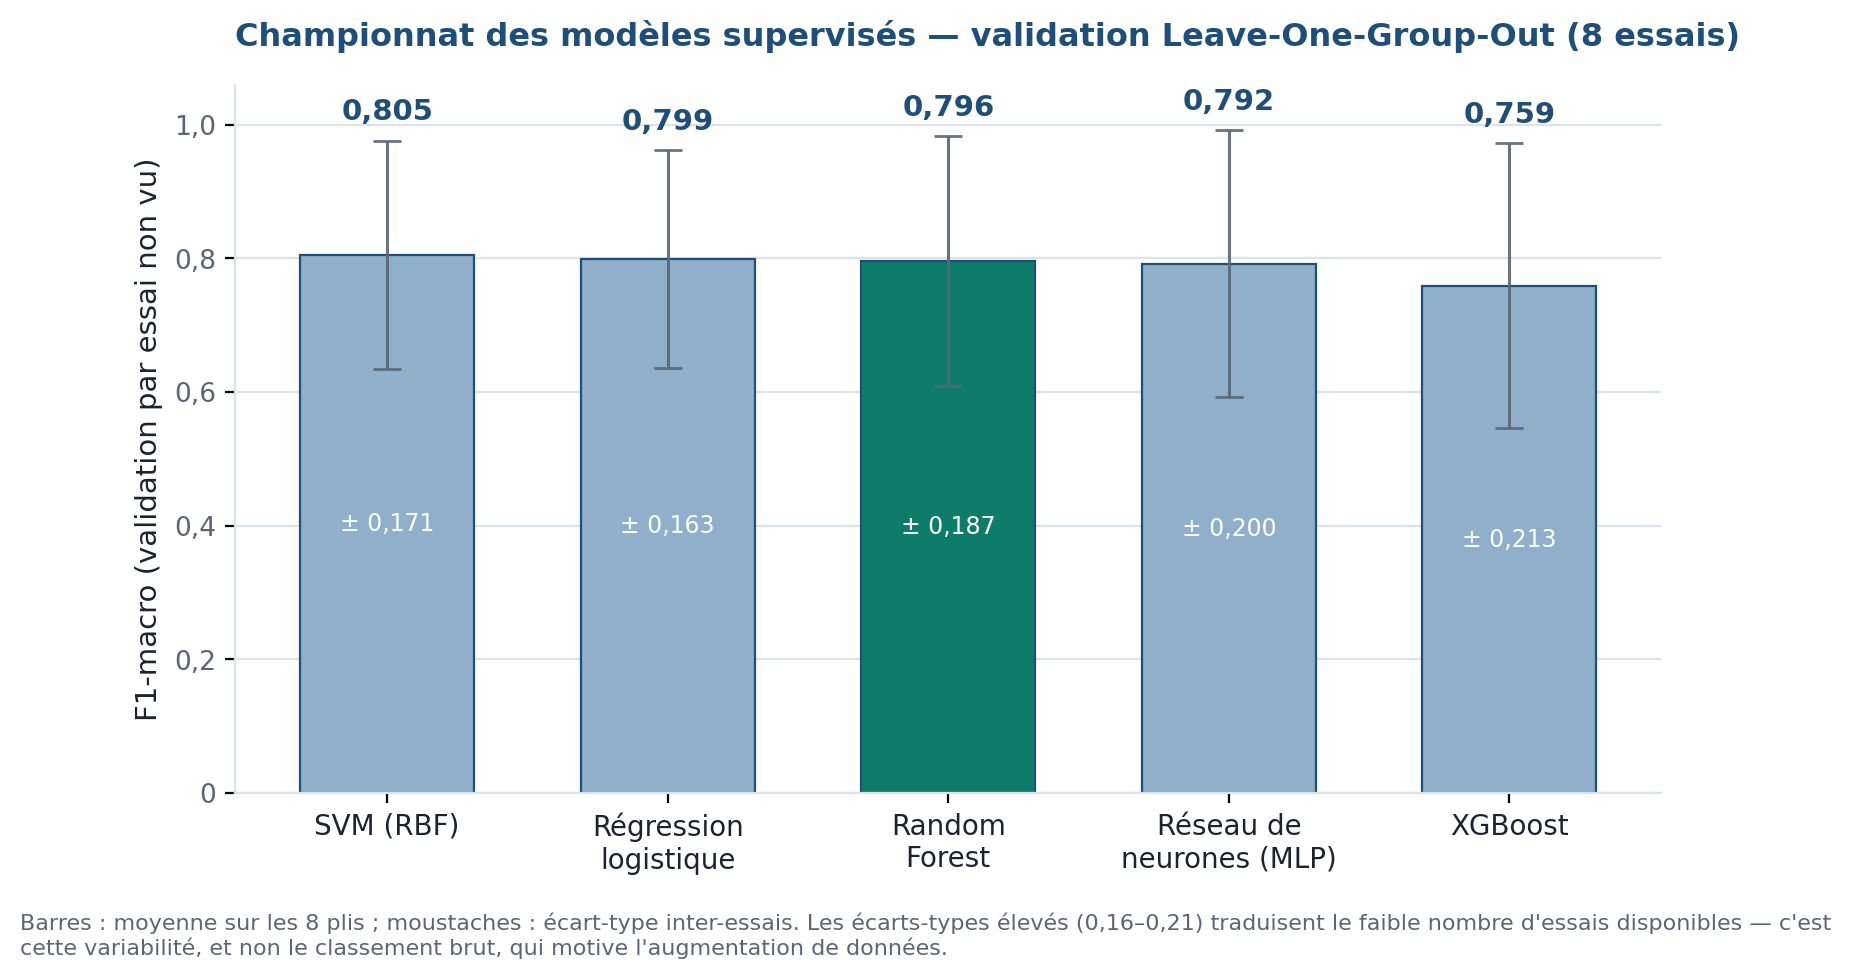
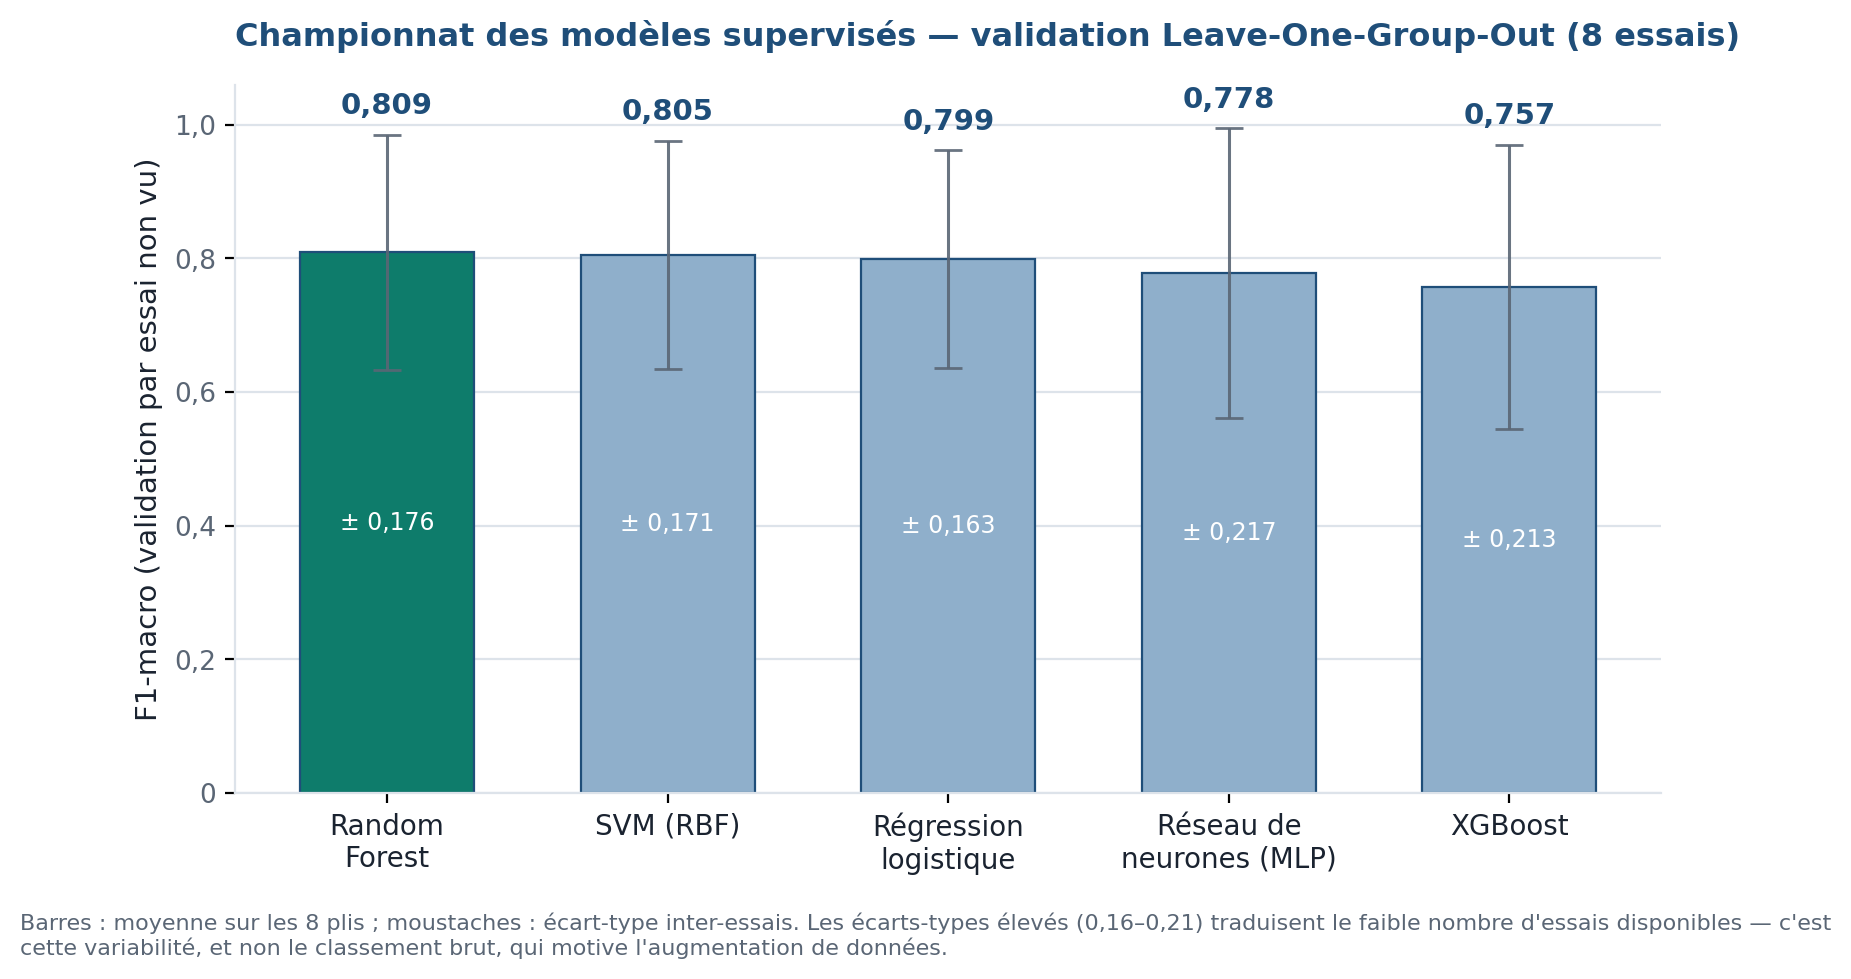
fix(figures): aligner le championnat des modèles sur le tableau du mémoire
La figure lisait model_comparison_logo_w60.json, campagne du 7 juillet, qui
donne Random Forest à 0,796 et place le SVM en tête. Le mémoire publie le
Tableau 8, issu de la campagne fold-aware du 31 juillet, où Random Forest est
à 0,809.

Les deux coexistaient dans le document déposé : la Figure 11 contredisait le
Tableau 8 sur le chiffre central du travail. Sur la diapositive 14 du support,
le graphique affichait 0,796 au-dessus d'un commentaire annonçant 0,809, et
montrait le modèle retenu en troisième position.

La figure lit désormais la même source que le mémoire. Le support porte donc un
seul jeu de chiffres.

diff --git a/scripts/build_fig_championnat.py b/scripts/build_fig_championnat.py
@@ -6,11 +6,20 @@ Leave-One-Group-Out (un essai laissé de côté à chaque pli, 8 essais), c'est-
 dire la mesure honnête : aucun modèle n'est évalué sur un essai qu'il a vu.
 
 Sortie : figures_memoire/fig_championnat_modeles.png
-Source : reports/model_comparison_logo_w60.json
+Source : reports/AI_thesis_results/block_2_model_augmentation/table_for_thesis.csv
+
+La figure lisait auparavant reports/model_comparison_logo_w60.json (campagne du
+7 juillet), qui donne Random Forest à 0,796 et place le SVM en tête. Le mémoire,
+lui, publie le Tableau 8 issu de la campagne finale fold-aware du 31 juillet, où
+Random Forest est à 0,809. Les deux coexistaient : le tableau du mémoire et sa
+Figure 11 se contredisaient sur le chiffre central du travail.
+
+La source est donc alignée sur celle du mémoire — un seul jeu de chiffres.
 """
 from __future__ import annotations
 
-import json
+import csv
+import re
 from pathlib import Path
 
 import matplotlib
@@ -19,7 +28,8 @@ import matplotlib.pyplot as plt
 from matplotlib import font_manager  # noqa: F401
 
 ROOT = Path(__file__).resolve().parents[1]
-SRC = ROOT / "reports" / "model_comparison_logo_w60.json"
+SRC = (ROOT / "reports" / "AI_thesis_results" / "block_2_model_augmentation"
+       / "table_for_thesis.csv")
 # Le pipeline du mémoire lit les figures dans reports/memoire_figures/ ;
 # figures_memoire/ est la copie livrable (alimentée par build_memoire_pro.py).
 OUT = ROOT / "reports" / "memoire_figures" / "fig_championnat_modeles.png"
@@ -32,22 +42,36 @@ GRIS = "#5A6675"
 GRILLE = "#DDE3EA"
 
 LABELS = {
-    "LogisticRegression": "Régression\nlogistique",
-    "RandomForest": "Random\nForest",
-    "SVM_RBF": "SVM (RBF)",
+    "Logistic regression": "Régression\nlogistique",
+    "Random Forest": "Random\nForest",
+    "SVM (RBF)": "SVM (RBF)",
     "XGBoost": "XGBoost",
-    "MLP": "Réseau de\nneurones (MLP)",
+    "Neural network (MLP)": "Réseau de\nneurones (MLP)",
 }
+
+# « 0.809 ± 0.176 » -> (0.809, 0.176)
+_VAL = re.compile(r"([\d.]+)\s*±\s*([\d.]+)")
+
+
+def lire_table() -> list[tuple[str, float, float]]:
+    """Lit le Tableau 8 du mémoire : F1-macro sans augmentation, par modèle."""
+    lignes = []
+    with SRC.open(encoding="utf-8-sig") as f:
+        for row in csv.DictReader(f):
+            m = _VAL.search(row["Macro-F1 without augmentation"])
+            if not m:
+                continue
+            lignes.append((row["Model"].strip(), float(m.group(1)), float(m.group(2))))
+    if not lignes:
+        raise SystemExit(f"Aucune valeur lisible dans {SRC}")
+    return lignes
 
 
 def main() -> None:
-    data = json.loads(SRC.read_text(encoding="utf-8"))
-    models = data["models"]
-    # Tri décroissant par F1-macro moyen
-    items = sorted(models.items(), key=lambda kv: kv[1]["logo_f1_macro_mean"], reverse=True)
-    noms = [LABELS.get(k, k) for k, _ in items]
-    moy = [v["logo_f1_macro_mean"] for _, v in items]
-    ect = [v["logo_f1_macro_std"] for _, v in items]
+    items = sorted(lire_table(), key=lambda t: t[1], reverse=True)
+    noms = [LABELS.get(k, k) for k, _, _ in items]
+    moy = [m for _, m, _ in items]
+    ect = [e for _, _, e in items]
 
     fig, ax = plt.subplots(figsize=(9.2, 4.6), dpi=200)
     fig.patch.set_facecolor("white")

diff --git a/reports/soutenance/CORRECTIONS_SUPPORT_apres_presoutenance.md b/reports/soutenance/CORRECTIONS_SUPPORT_apres_presoutenance.md
@@ -1,0 +1,175 @@
+# Corrections du support — après la pré-soutenance
+
+**Périmètre : le support de présentation uniquement.** Le mémoire n'est pas modifié,
+conformément à la consigne. Une réserve à connaître est signalée au point 5.
+
+---
+
+## 1. Diapositive 14 — remplacer la figure du championnat (PRIORITAIRE)
+
+**Le problème** : la figure actuelle affiche Random Forest à **0,796**, en troisième
+position derrière le SVM. Le texte de la même diapositive annonce **0,809**. Le
+graphique contredit donc le commentaire, à l'écran, en grand — et un jury qui le
+remarque en conclut que le modèle retenu n'est pas le meilleur.
+
+Origine : la figure était générée depuis une campagne de mesure du 7 juillet, alors
+que le mémoire publie celle du 31 juillet (fold-aware).
+
+**Action** : remplacer l'image par le fichier régénéré
+
+```
+figures_memoire/fig_championnat_modeles.png
+```
+
+Random Forest y est premier à 0,809, comme dans le Tableau 8 du mémoire.
+
+---
+
+## 2. Supprimer les images génératives décoratives
+
+Elles n'apportent aucune information et se repèrent immédiatement.
+
+| Diapositive | Ce qu'il faut retirer | Pourquoi |
+|---|---|---|
+| **14** | L'image de droite | Elle affiche en gros `CHAMPIANISHIP`, `NE LEARNING MODELSTOMPE`, `MCDLIY`, `Aia Sctence` — du charabia lisible à cinq mètres |
+| **6** | La photo de gauche | Un homme devant un tableau SWOT **en anglais**, qui fait doublon avec ta vraie figure juste à côté |
+
+Vérifie aussi les diapositives 8, 11, 18, 20 : partout où une image de fond passe
+sous du texte ou sous une figure, elle nuit à la lecture sans rien ajouter.
+
+**Règle simple** : une image reste si elle porte de l'information (une figure, une
+capture de l'application). Sinon elle part.
+
+---
+
+## 3. Ajouter une diapositive « Augmentation de données »
+
+À insérer **juste après la diapositive 16** (Le vrai résultat).
+
+C'est la réponse directe à la remarque « le dataset est trop petit » — et elle
+retourne complètement la critique.
+
+> ### L'augmentation de données : testée, mesurée, sans effet
+>
+> Base synthétique de **100 800 lignes** générée à partir des huit essais réels.
+
+| Modèle | Sans augmentation | Avec augmentation (par pli) | Gain |
+|---|---|---|---|
+| **Random Forest** | 0,809 | **0,809** | −0,001 |
+| SVM (RBF) | 0,805 | 0,824 | +0,018 |
+| Régression logistique | 0,799 | 0,809 | +0,010 |
+| XGBoost | 0,757 | 0,801 | +0,044 |
+| Réseau de neurones (MLP) | 0,778 | 0,781 | +0,004 |
+
+> Le synthétique **ne crée pas d'information absente des données réelles**.
+> Mon premier protocole annonçait +0,109 : le pool était généré une seule fois sur
+> les huit essais, donc l'essai de test alimentait indirectement l'entraînement.
+> Régénéré dans chaque pli, le gain disparaît.
+
+**Ce que tu dis (45 s)**
+
+> « On me demande souvent pourquoi je ne compense pas le faible volume par des
+> données synthétiques. Je l'ai fait : 100 800 lignes générées depuis mes huit
+> essais, employées de deux façons — en validation externe, où le modèle conserve
+> 0,753 d'AUC, et en augmentation d'entraînement sur les cinq modèles.
+>
+> Le gain va de +0,001 à +0,044 selon le modèle, et il est nul pour celui que je
+> retiens. La conclusion est nette : le synthétique ne remplace pas des essais
+> réels, il ne fait que redistribuer l'information déjà présente. »
+
+---
+
+## 4. Ajouter une diapositive « Pourquoi ces cinq modèles »
+
+À insérer **juste avant la diapositive 14** (Championnat).
+
+Question annoncée comme récurrente par la référente.
+
+> ### Cinq familles, pas cinq algorithmes au hasard
+
+| Modèle | Ce qu'il teste | Pourquoi lui |
+|---|---|---|
+| Régression logistique | Séparabilité linéaire | Référence basse, entièrement interprétable |
+| SVM (RBF) | Frontières non linéaires | Robuste quand les échantillons sont peu nombreux |
+| Random Forest | Ensemble par *bagging* | Donne l'importance des variables — exigence d'explicabilité |
+| XGBoost | Ensemble par *boosting* | Référence sur données tabulaires |
+| Réseau de neurones (MLP) | Non-linéarité profonde | Vérifie qu'un modèle plus expressif n'apporte rien ici |
+
+> **Écartés volontairement** : l'apprentissage profond (huit essais, il mémoriserait
+> les essais au lieu du procédé) et les modèles séquentiels type LSTM (les fenêtres
+> de 60 s sont déjà agrégées en 87 descripteurs, la dimension temporelle fine a
+> disparu).
+
+**Ce que tu dis (30 s)**
+
+> « Ces cinq modèles ne sont pas un échantillon arbitraire : ils couvrent l'espace
+> des hypothèses. Un linéaire pour la référence, un à marges pour les frontières
+> non linéaires, deux ensembles — un par bagging, un par boosting — et un réseau
+> pour vérifier qu'une plus grande expressivité n'apporte rien. Le fait qu'ils
+> finissent tous entre 0,78 et 0,82 est en soi un résultat : à ce volume de
+> données, le choix de l'algorithme n'est pas le levier. »
+
+---
+
+## 5. Réserve à connaître — ne pas la découvrir devant le jury
+
+Après ces corrections, **le support sera cohérent** (graphique, texte et Tableau 8
+du mémoire diront tous 0,809).
+
+Mais la **Figure 11 du mémoire déposé** continuera d'afficher 0,796 et de placer le
+Random Forest en troisième position, en contradiction avec son propre Tableau 8.
+Le mémoire n'est pas modifié, c'est un choix assumé : le régénérer pour trois
+décimales ferait courir plus de risques qu'il n'en éviterait.
+
+**Si la question tombe :**
+
+> « Vous avez raison, la Figure 11 et le Tableau 8 de mon mémoire divergent. Ils
+> proviennent de deux campagnes de mesure : la figure d'un premier passage
+> Leave-One-Group-Out en juillet, le tableau de la campagne finale fold-aware. Le
+> chiffre de référence est celui du tableau — 0,809. La figure aurait dû être
+> régénérée, c'est une erreur de ma part que j'ai corrigée depuis sur le support. »
+
+Un jury pardonne une erreur assumée. Il ne pardonne pas une contradiction qu'on
+n'avait pas vue.
+
+---
+
+## 6. Garder 27 diapositives : deux fusions
+
+Ajouter deux diapositives sans en retirer ferait 29, donc plus de 30 minutes.
+
+| Fusionner | En |
+|---|---|
+| **23** (Veille) + **24** (Budget) | Une seule diapositive « Veille & budget » — elles n'avaient été séparées que pour contourner une limite de Gamma |
+| **19** (HMI Supervision) + **20** (Profil & Moteur) | Une seule « L'application » — la démonstration live montre déjà les deux pages |
+
+---
+
+## 7. Ce que je ne recommande pas
+
+**Fabriquer trois cas d'utilisation supplémentaires.** Tu en as déjà cinq (C1 à C5).
+Avant d'en produire d'autres, il faut savoir ce que la référente visait :
+
+- soit elle **ne les a pas vus** — alors le problème est qu'ils ne sont pas joués en
+  direct, pas qu'ils manquent ;
+- soit elle parle de **cas d'usage métier** (un opérateur en prise de poste, un
+  ingénieur R&D qui compare deux configurations, un responsable qui audite un lot
+  raté), ce qui n'est pas la même chose que des cas de test.
+
+Mon interprétation : la seconde. Tes C1–C5 prouvent que l'outil *réagit* ; elle veut
+savoir à quoi il *sert*, et pour qui. À clarifier avec elle avant de produire quoi
+que ce soit.
+
+---
+
+## Récapitulatif
+
+| # | Action | Temps | Risque |
+|---|---|---|---|
+| 1 | Remplacer la figure du championnat | 2 min | nul |
+| 2 | Supprimer les images génératives (6, 14, puis vérifier 8, 11, 18, 20) | 10 min | nul |
+| 3 | Ajouter « Augmentation de données » | 15 min | nul |
+| 4 | Ajouter « Pourquoi ces cinq modèles » | 15 min | nul |
+| 6 | Fusionner 23+24 et 19+20 | 10 min | faible |
+
+Puis réexporter en PDF sous le nom `MBEUMI_Wilfried_PREZ.pdf`.
